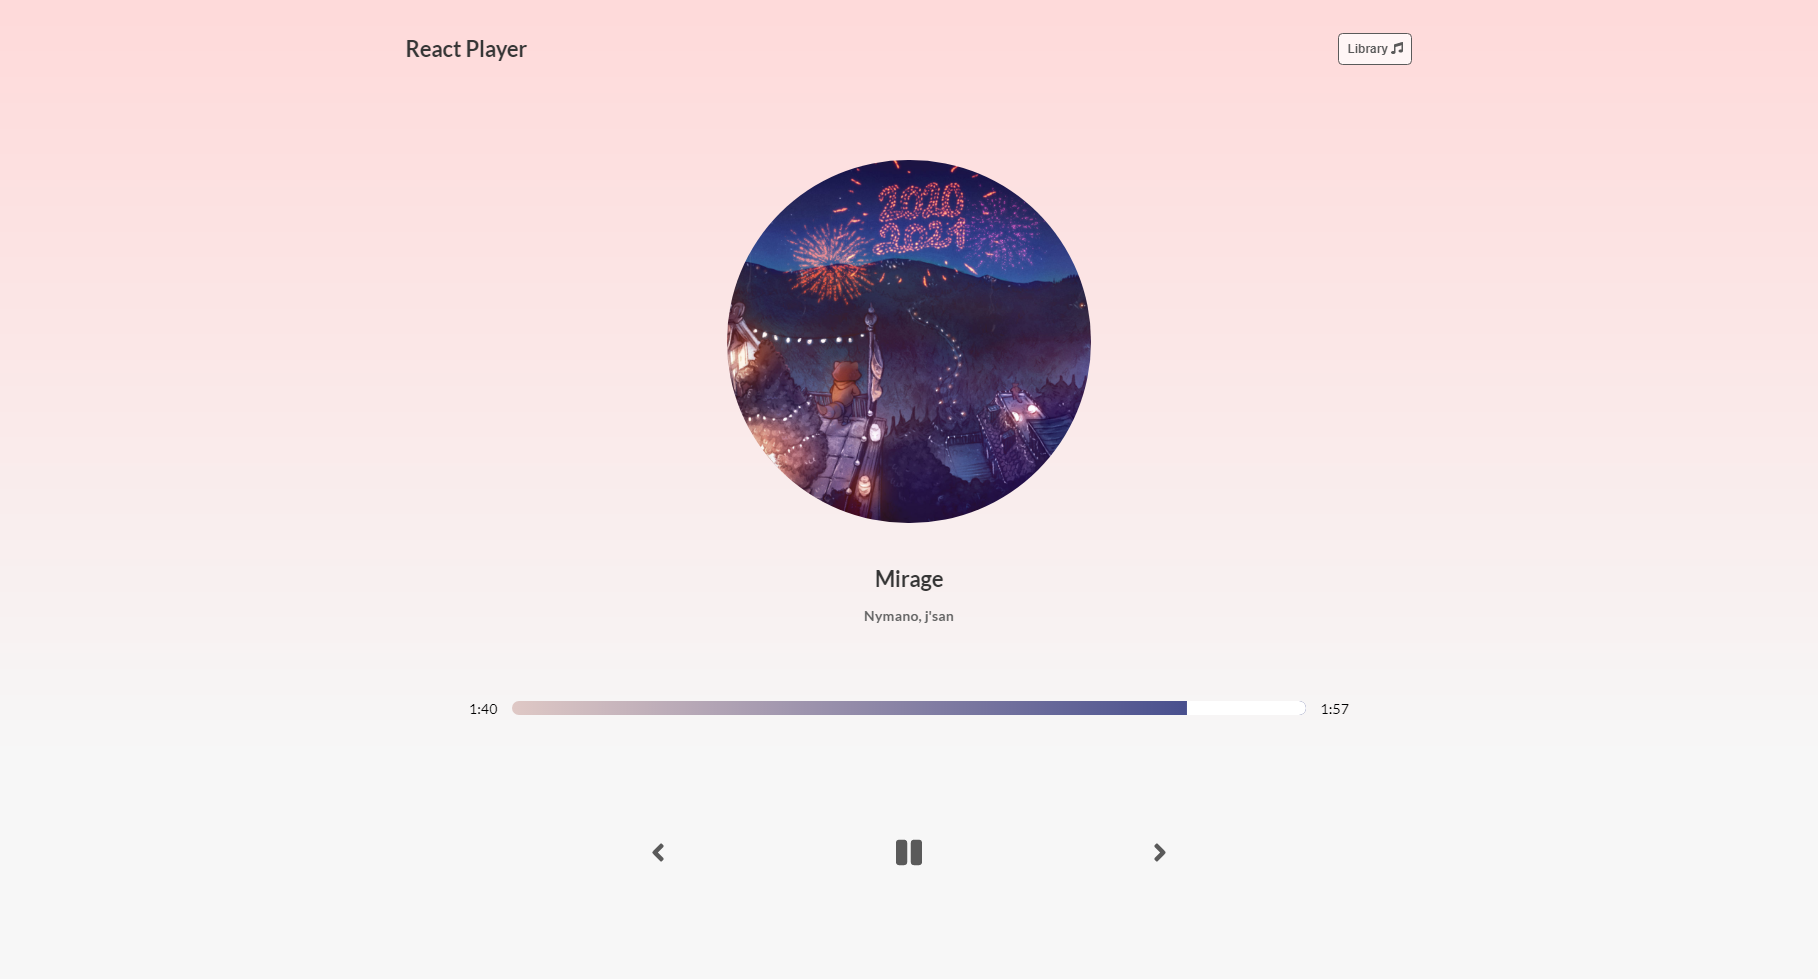
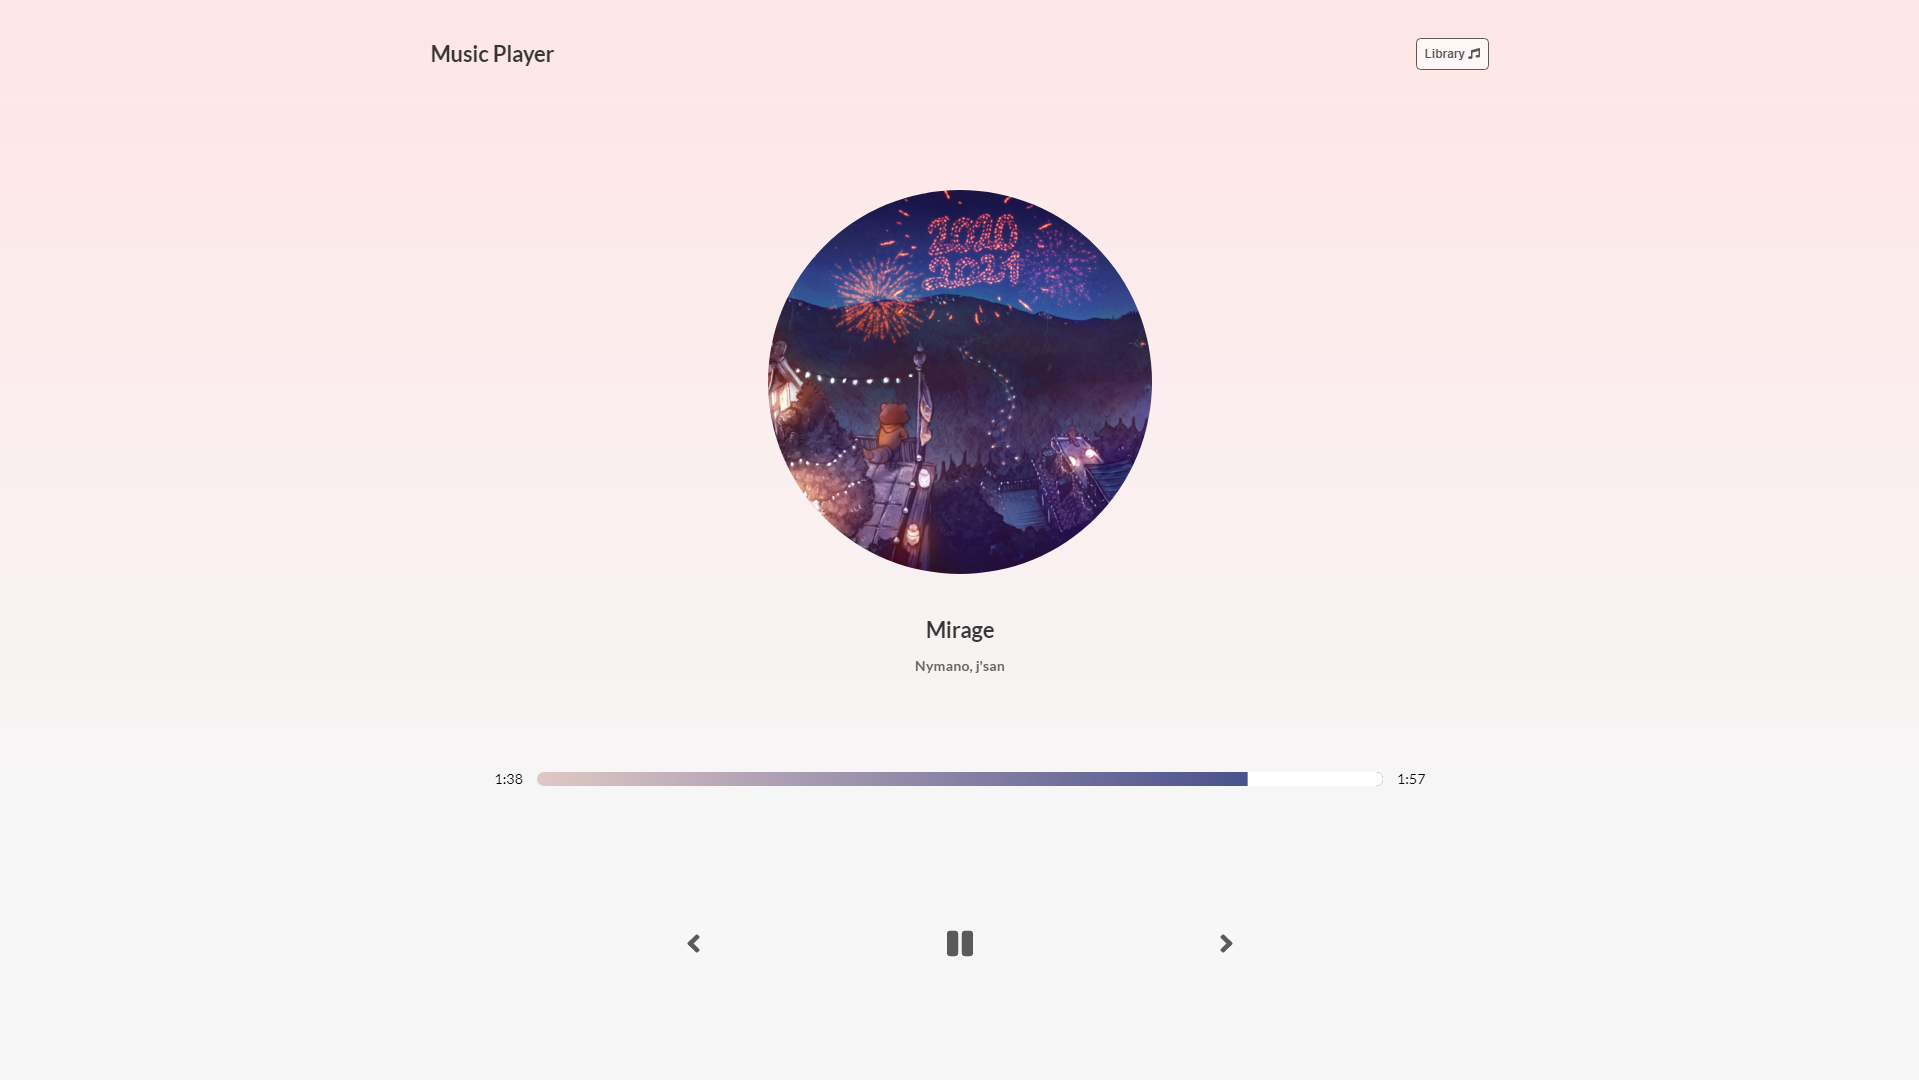
update primary-color

diff --git a/src/styles/app.scss b/src/styles/app.scss
@@ -1,4 +1,4 @@
-$primary-color: rgb(255, 218, 218);
+$primary-color: rgb(255, 230, 230);
 $text-color: rgb(90, 90, 90);
 
 * {
